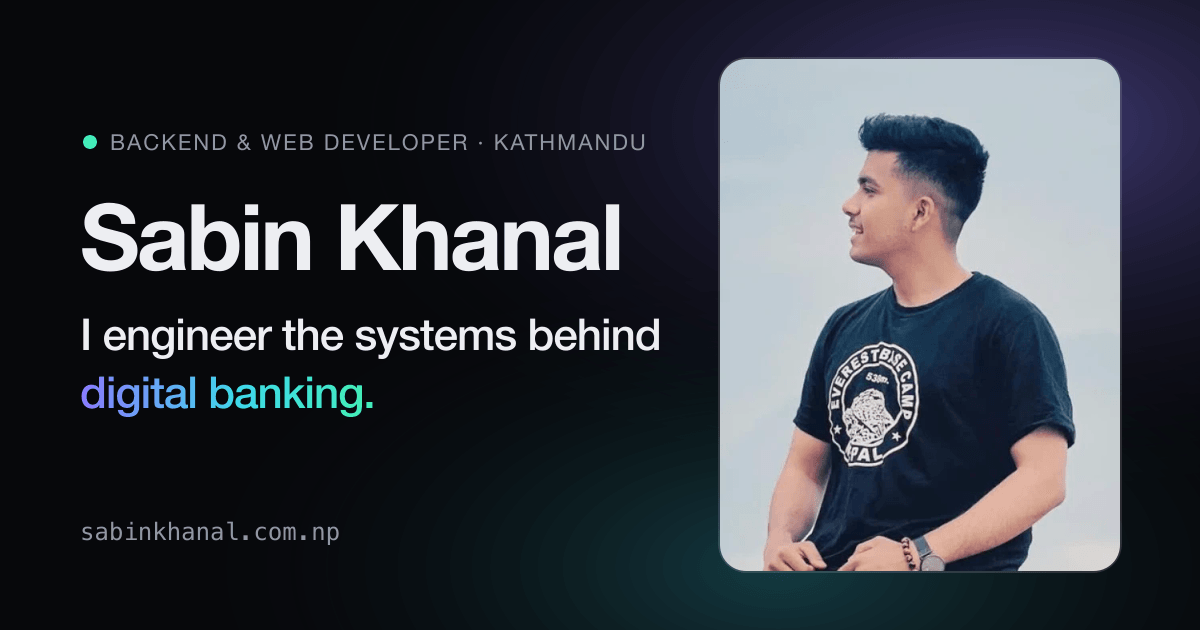
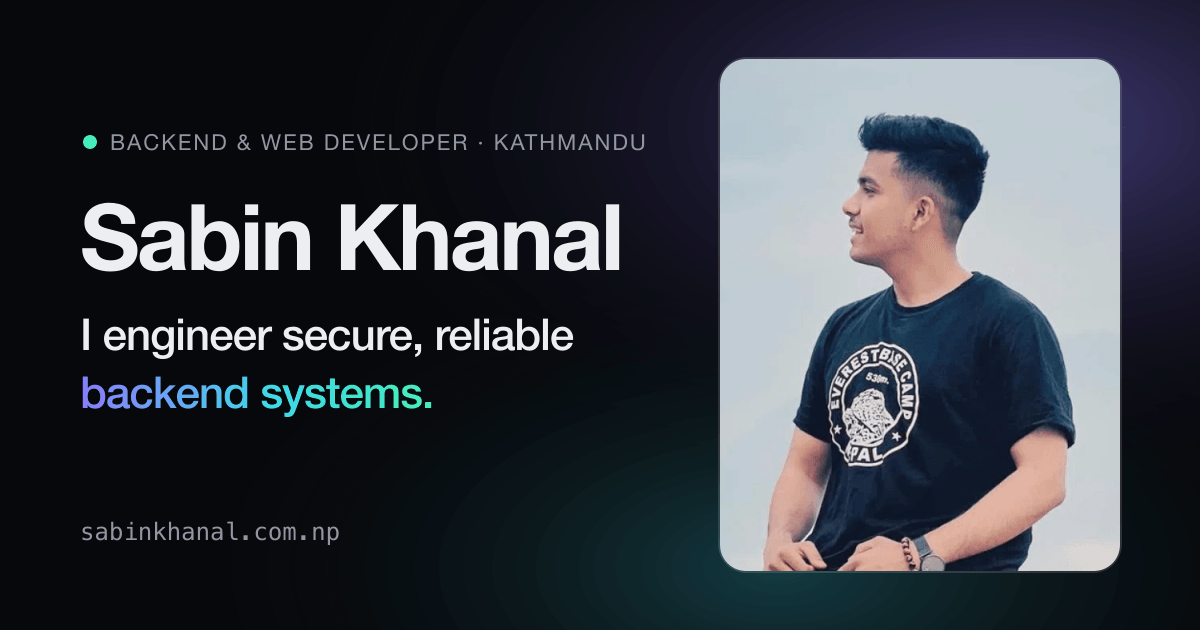
Remove "banking" from the portfolio copy
- Headline: "I engineer secure, reliable backend systems."
- Status, hero chip, About paragraph and meta description no longer say "banking"
- Link-preview image regenerated with the new headline; service worker cache v3
- The CV job title "Transaction & Digital Banking" is unchanged

Changed region(s): [[0.2158, 0.4825, 0.555, 0.573], [0.0617, 0.6032, 0.37, 0.6635]]

diff --git a/src/data/profile.ts b/src/data/profile.ts
@@ -10,7 +10,7 @@ export const profile = {
   linkedin: 'https://www.linkedin.com/in/sabin-khanal-950163326',
   cv: '/Sabin-Khanal-CV.pdf',
   description:
-    'Sabin Khanal — Backend & Web Developer in Kathmandu, Nepal. Building secure, tested digital banking systems with Python, Flask and PostgreSQL at Best Finance Company.',
+    'Sabin Khanal — Backend & Web Developer in Kathmandu, Nepal. Building secure, tested backend systems with Python, Flask and PostgreSQL at Best Finance Company.',
 };
 
 export const education = { degree: 'BSc (Hons) Computing', school: 'The British College', year: 2025 };

diff --git a/public/sw.js b/public/sw.js
@@ -1,5 +1,5 @@
 // Offline support: network-first for pages, stale-while-revalidate for assets. Bump VERSION to drop old caches.
-const VERSION = 'sk-v2';
+const VERSION = 'sk-v3';
 const cacheable = (res) => res.ok && !/no-store/i.test(res.headers.get('Cache-Control') ?? '');
 const PRECACHE = ['/', '/favicon.svg', '/icon-192.png', '/Sabin-Khanal-CV.pdf'];
 
